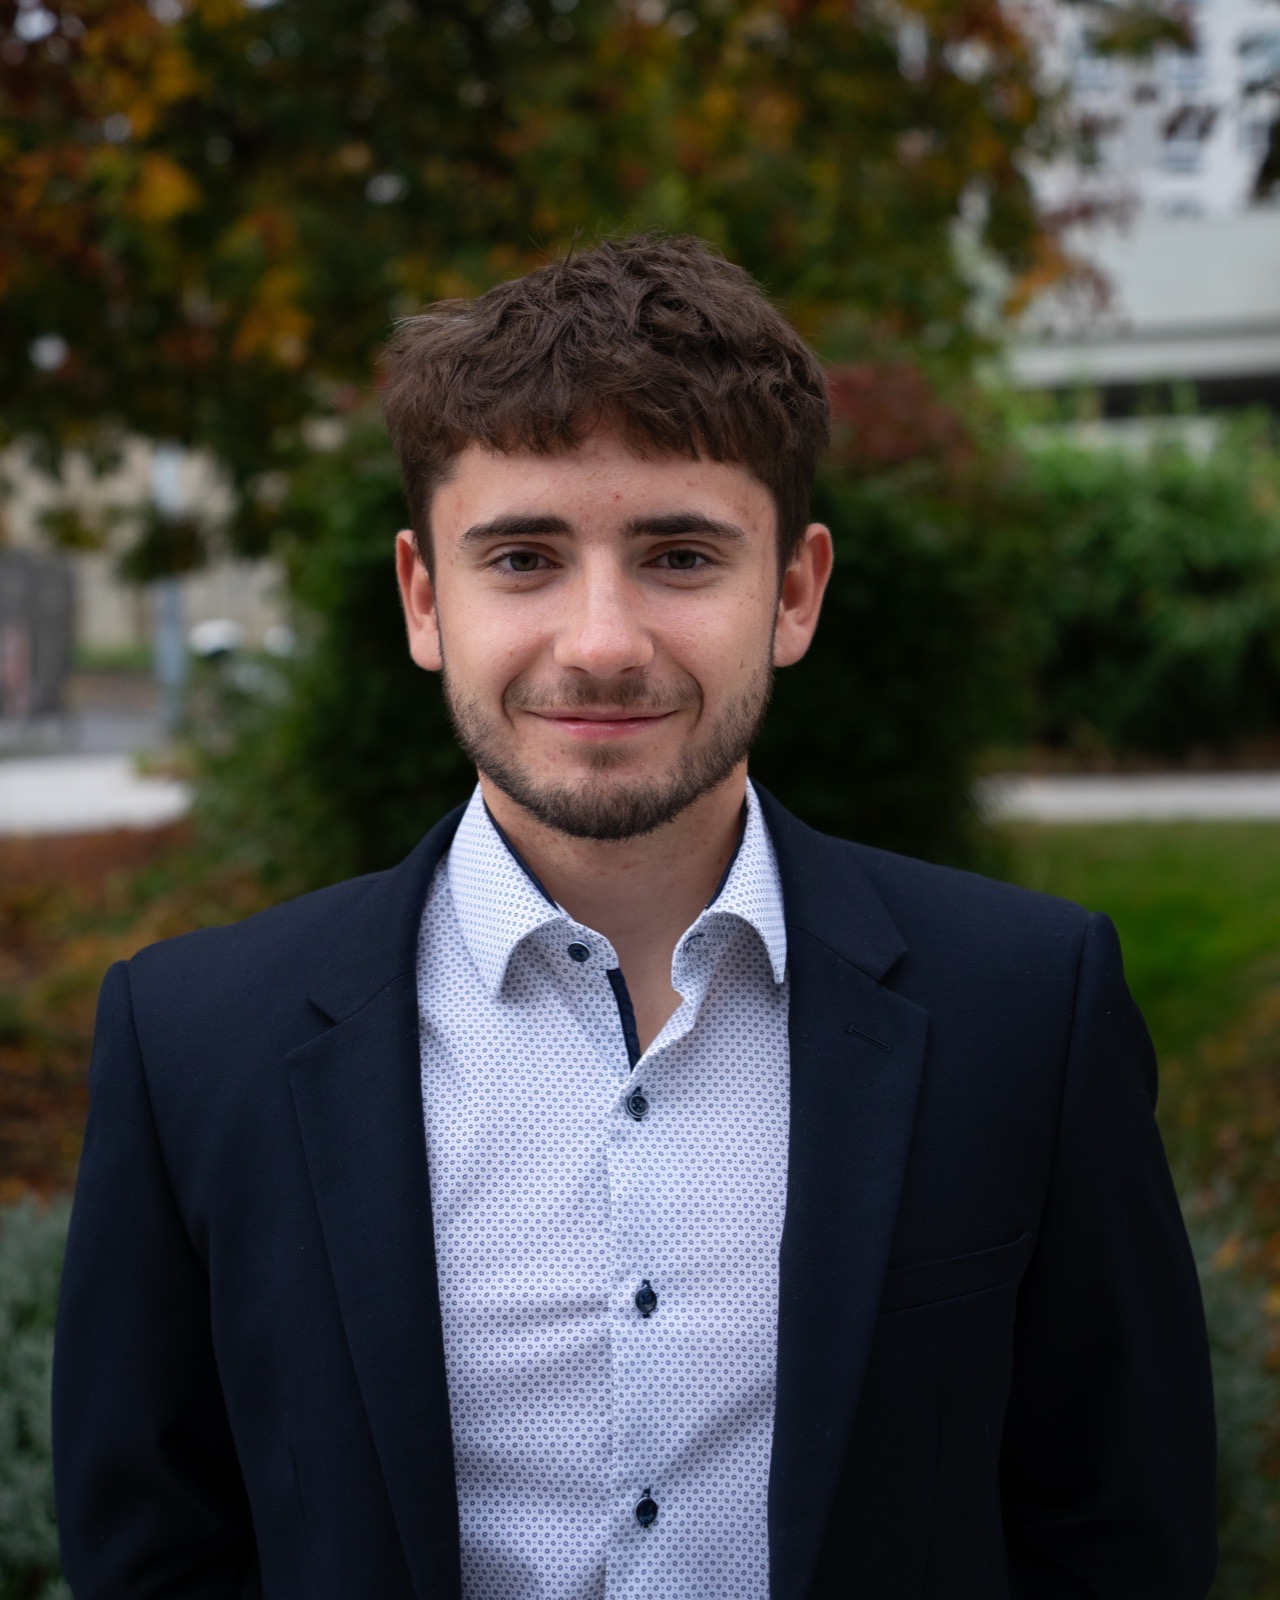
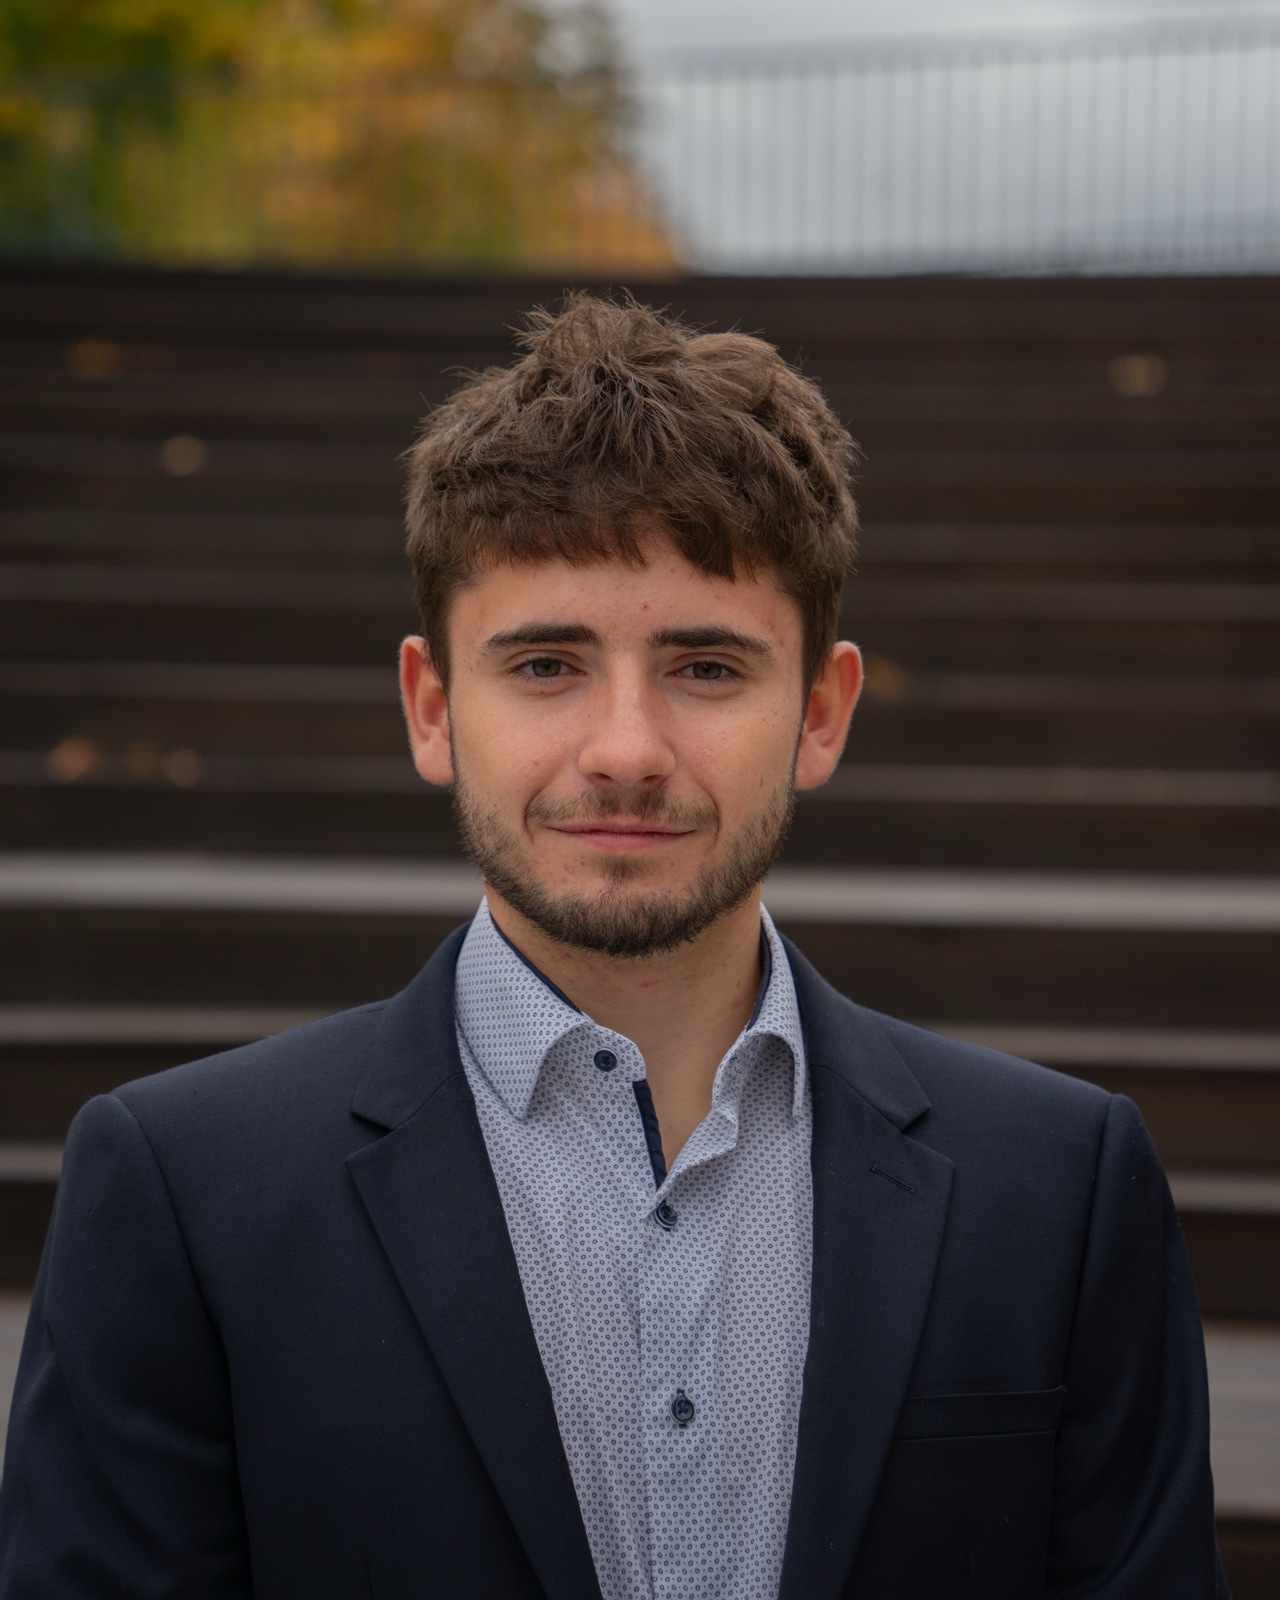
Jiné fotky: A v hero, DSC01663 v Kontaktu

diff --git a/README.md b/README.md
@@ -23,7 +23,7 @@ Statický web (úvodní stránka a stránka s nástroji, čeština + `/en/`) ve 
 | `assets/js/hints.js` | jen varianta C, úvodní stránka: poznámky u označených slov v hero a Profilu (najetí myší, fokus z klávesnice, první klepnutí) |
 | `assets/js/skyline.js`, `assets/css/skyline.css` | jen varianta C: graf příspěvků ve stylu GitHubu (2D mřížka a 3D panorama), čistý JS + canvas |
 | `src/contributions.json`, `scripts/build-contributions.mjs` | počty commitů po dnech za poslední rok pro graf; obnova je v části Graf commitů níže |
-| `assets/img/` | portréty pro hero a Kontakt (`adam-hero`, `adam-contact`, 640 a 1280 px, poměr 4:5); v obsahu `hero.photo.alt` a `contact.photo.alt`, zdroj je složka Downloads/adam_jpg |
+| `assets/img/` | portréty pro hero a Kontakt (`adam-hero`, `adam-contact`, 640 a 1280 px, poměr 4:5); v obsahu `hero.photo.alt` a `contact.photo.alt`, zdroj je složka Downloads/adam_jpg (hero = A.jpg, Kontakt = DSC01663.jpg) |
 | `src/thumbs.mjs` | SVG náhledy tří modelů na kartách nástrojů (skutečné výpočty, žádné obrázky) |
 | `assets/js/quant.js` | tři interaktivní modely (Black–Scholes, Monte Carlo se skoky podle Mertona, Markowitz), čistý JS + canvas |
 | `src/typo.mjs` | česká typografie (nezlomitelné mezery) pro web i CV |
